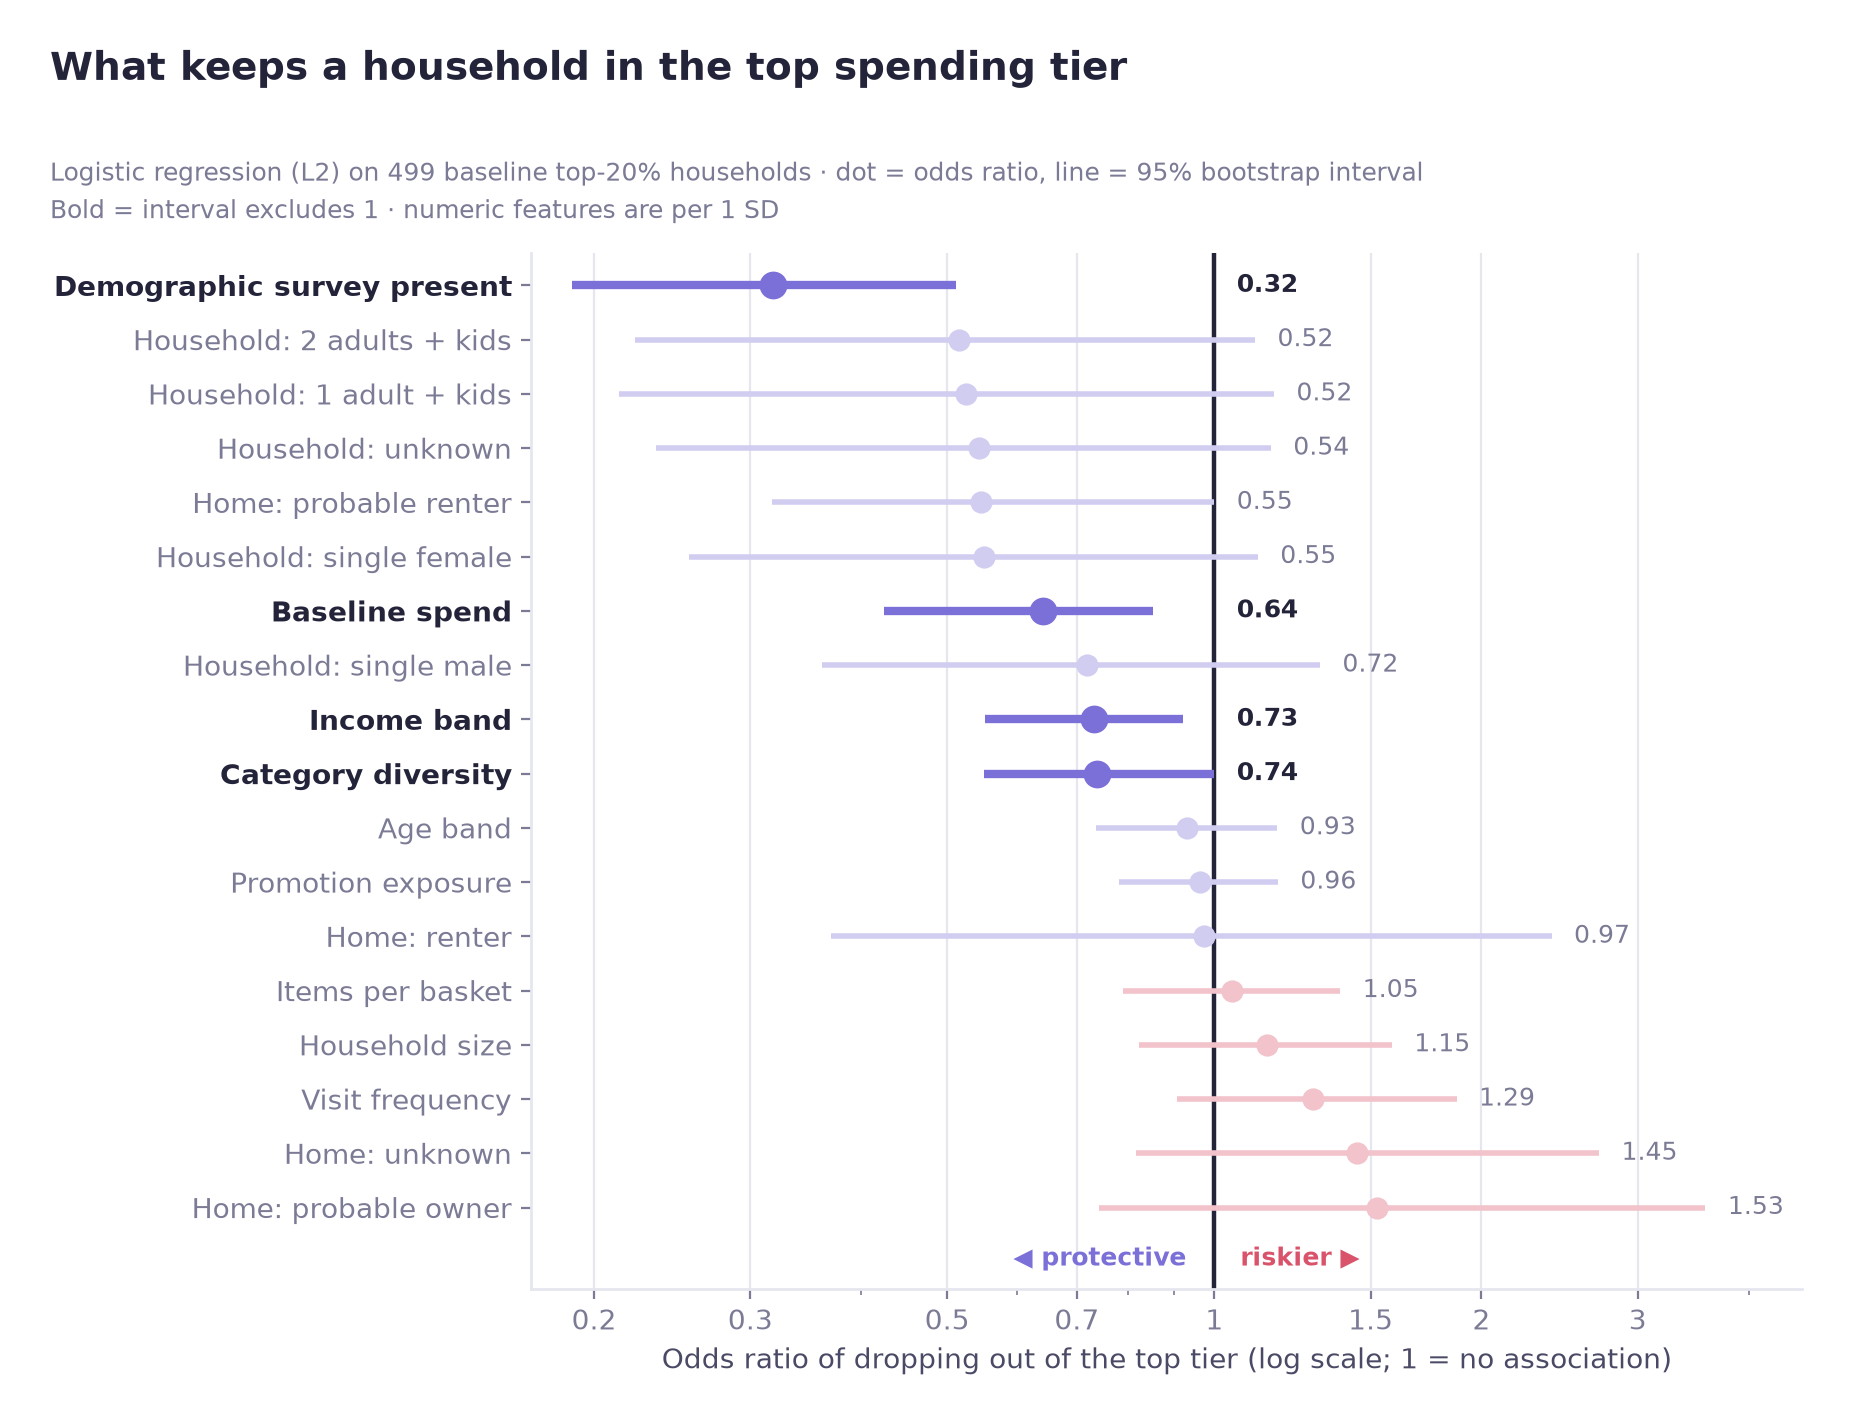
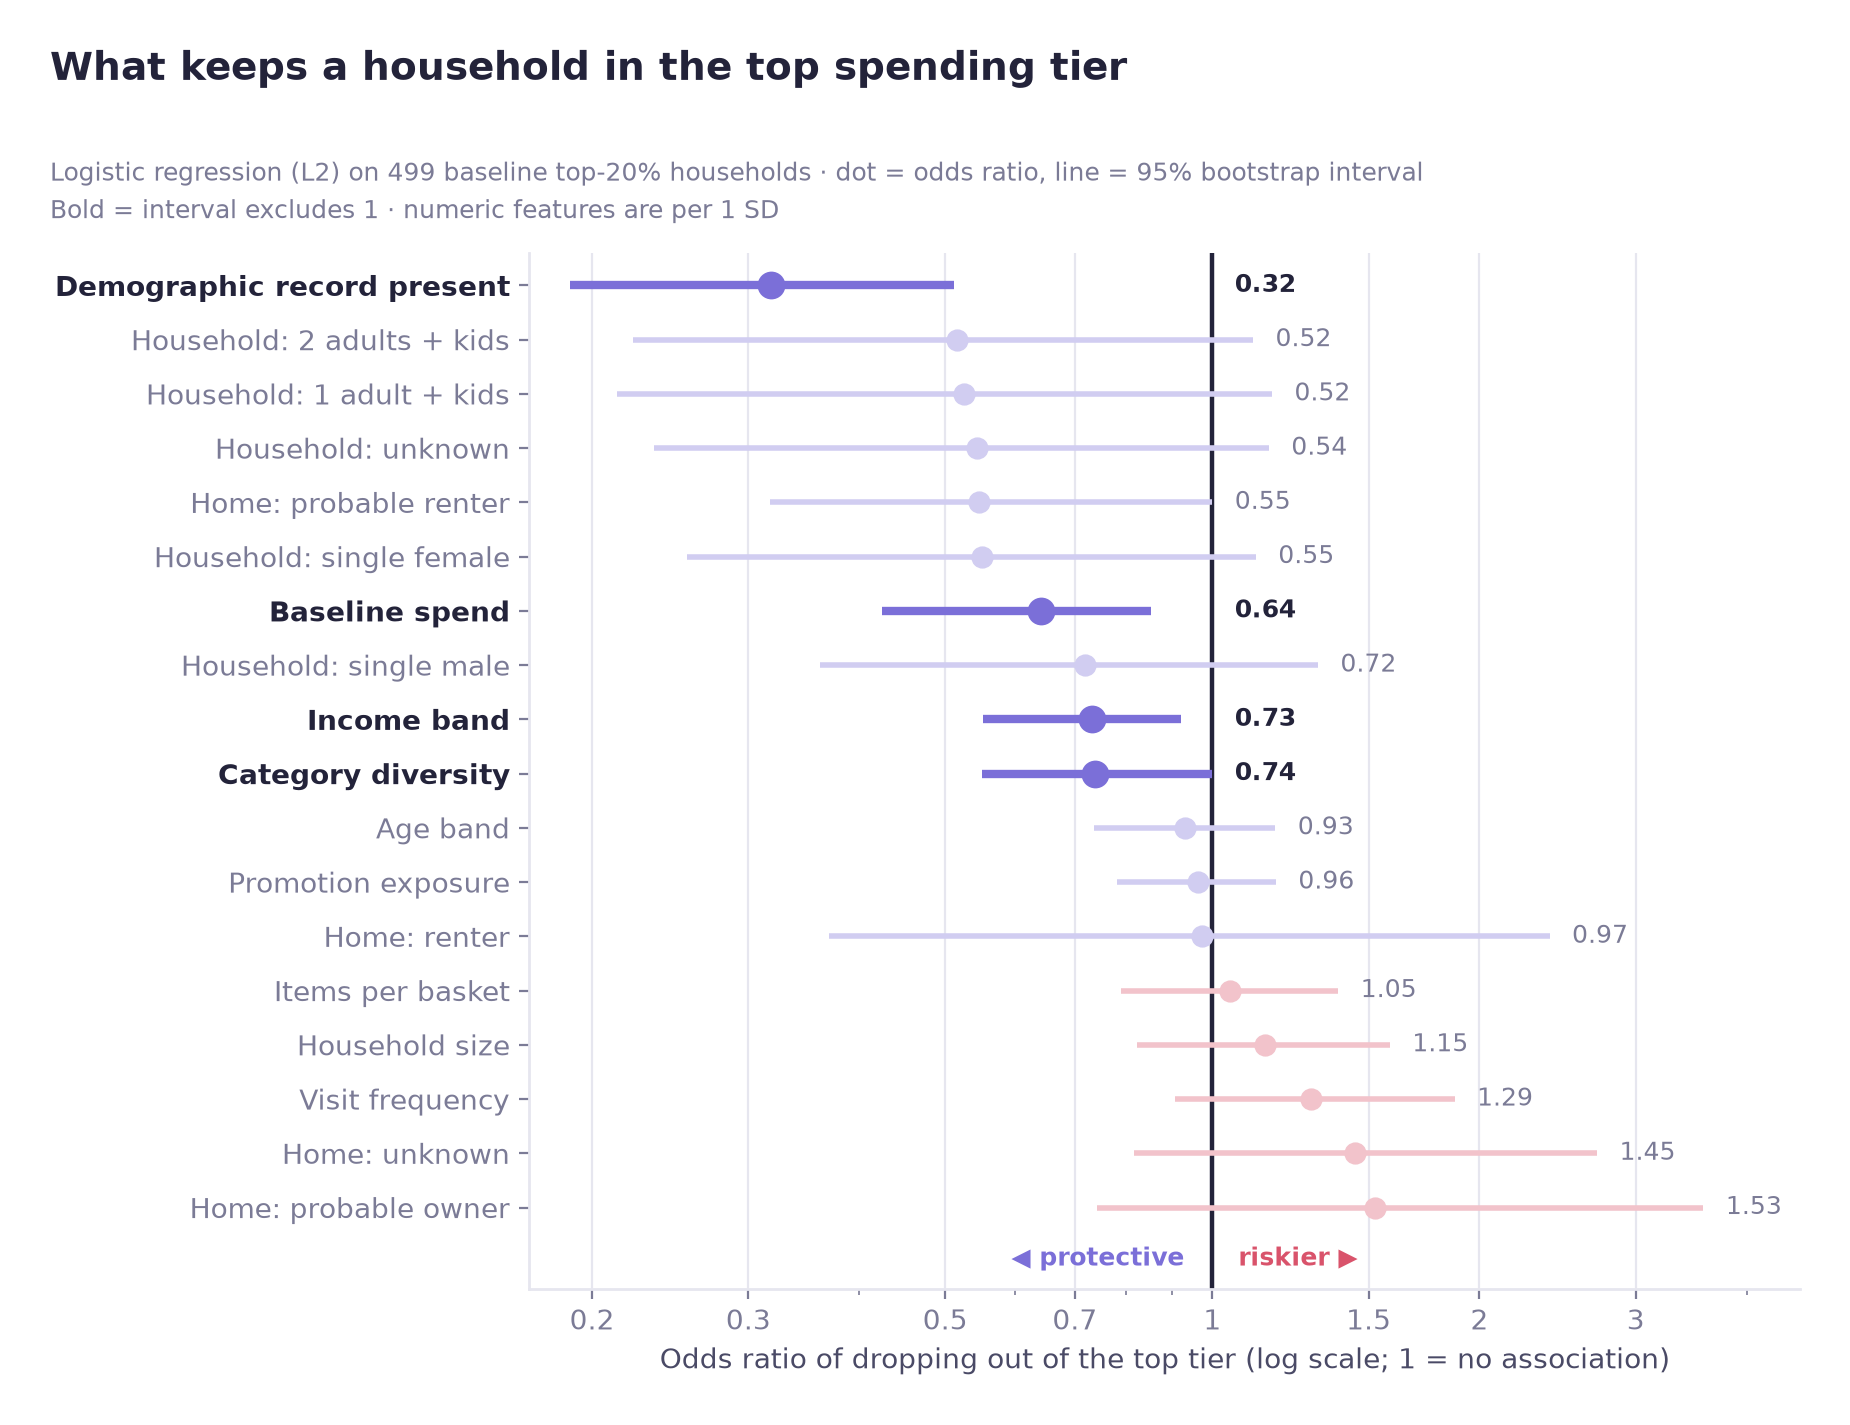
Define has_demo as a demographic record present/absent in the README and the figure labels

diff --git a/README.md b/README.md
@@ -250,7 +250,7 @@ I avoided using campaign history that would only become available after the pred
 
 ## 16. Feature engineering
 
-1. **Demographic missingness:** kept a distinct missing-data category for the 180 households. The original category `Unknown` is different from an entirely absent survey record.
+1. **Demographic missingness:** kept a distinct missing-data category for the 180 households. The original category `Unknown` is different from an entirely absent demographic record.
 2. **Outcome balance:** **44.7%** dropped out of the top 20% and **55.3%** remained; there was no severe class imbalance.
 3. **Quantity anomalies:** among the 499 households, the average `QUANTITY` per basket in the early window reached **9,021** at most (for example **7,660** for one household), and a single transaction line reached **41,686** units, possibly because quantity units differ across products (weight- or volume-based items). I replaced the quantity-based `avg_qty_per_basket` with **`avg_items_per_basket`**, based on distinct items.
 4. **Promotion exposure:** the raw `exposure_ratio` was higher among households that later fell out of the top 20%, so I checked its conditional direction in the regression model. After adjusting for the other variables the association disappeared (section 20).
@@ -307,15 +307,15 @@ Odds ratios for numeric features are per one standard deviation (SD). Intervals 
 | `n_baskets` | per 1 SD (≈ 23.1 baskets) | 1.29 | 0.91–1.87 | 0.07 | Not established |
 | `exposure_ratio` | per 1 SD (≈ 0.079) | 0.96 | 0.78–1.18 | 0.71 | Not established |
 
-- **`has_demo`:** households with demographic records were less likely to leave the top 20%. It might proxy customer engagement; it is not proof that completing a survey prevents rank decline.
-- **Income band:** this is an ordered code, not a category compared with a reference level: 12 ordered bands from Under 15K (0) to 250K+ (11). The odds ratio compares households one SD (about two bands) apart, and higher-income households were less likely to drop out. The 180 households without survey data were assigned the most common band (50–74K); `has_demo` identifies them.
+- **`has_demo`:** households with demographic records were less likely to leave the top 20%. It might proxy customer engagement; it is not proof that having a demographic record prevents rank decline.
+- **Income band:** this is an ordered code, not a category compared with a reference level: 12 ordered bands from Under 15K (0) to 250K+ (11). The odds ratio compares households one SD (about two bands) apart, and higher-income households were less likely to drop out. The 180 households without a demographic record were assigned the most common band (50–74K); `has_demo` identifies them.
 - **`sales_early` and `category_diversity`:** higher starting spending and broader purchases were associated with a lower probability of falling out. The `category_diversity` interval only just excludes 1.
 - **`exposure_ratio` and `n_baskets`:** no association was established after accounting for the other variables. The point estimate for visit frequency (1.29) leans toward higher risk, but its interval includes 1 and should not be read as a risk factor.
 - **Housing categories:** some cells are very small, so I do not interpret their estimates.
 
 All odds ratios describe associations conditional on included variables, not causal responses to changing a feature.
 
-![Forest plot of odds ratios with 95% bootstrap intervals on a log scale: demographic survey present 0.32, baseline spend 0.64, income band 0.73 and category diversity 0.74 have intervals that exclude 1; visit frequency 1.29 and promotion exposure 0.96 do not](images/odds-ratios.png)
+![Forest plot of odds ratios with 95% bootstrap intervals on a log scale: demographic record present 0.32, baseline spend 0.64, income band 0.73 and category diversity 0.74 have intervals that exclude 1; visit frequency 1.29 and promotion exposure 0.96 do not](images/odds-ratios.png)
 
 ## 21. Model 2: random forest and SHAP
 
@@ -333,7 +333,7 @@ The most important predictors overlapped considerably with the logistic results.
 
 That is interesting for customer prioritization, but it does not prove that targeting households near those thresholds produces the greatest campaign lift.
 
-![Random forest SHAP importance: demographic survey present 0.082, baseline spend 0.049, category diversity 0.029, income band 0.024 and items per basket 0.017 are the top five](images/shap-importance.png)
+![Random forest SHAP importance: demographic record present 0.082, baseline spend 0.049, category diversity 0.029, income band 0.024 and items per basket 0.017 are the top five](images/shap-importance.png)
 
 ![Mean SHAP value by decile of the feature: baseline spend falls from +0.091 in the lowest decile to −0.082 in the ninth and −0.084 in the tenth, flat above 1,246; category diversity keeps falling to −0.061 in the top decile](images/shap-saturation.png)
 
